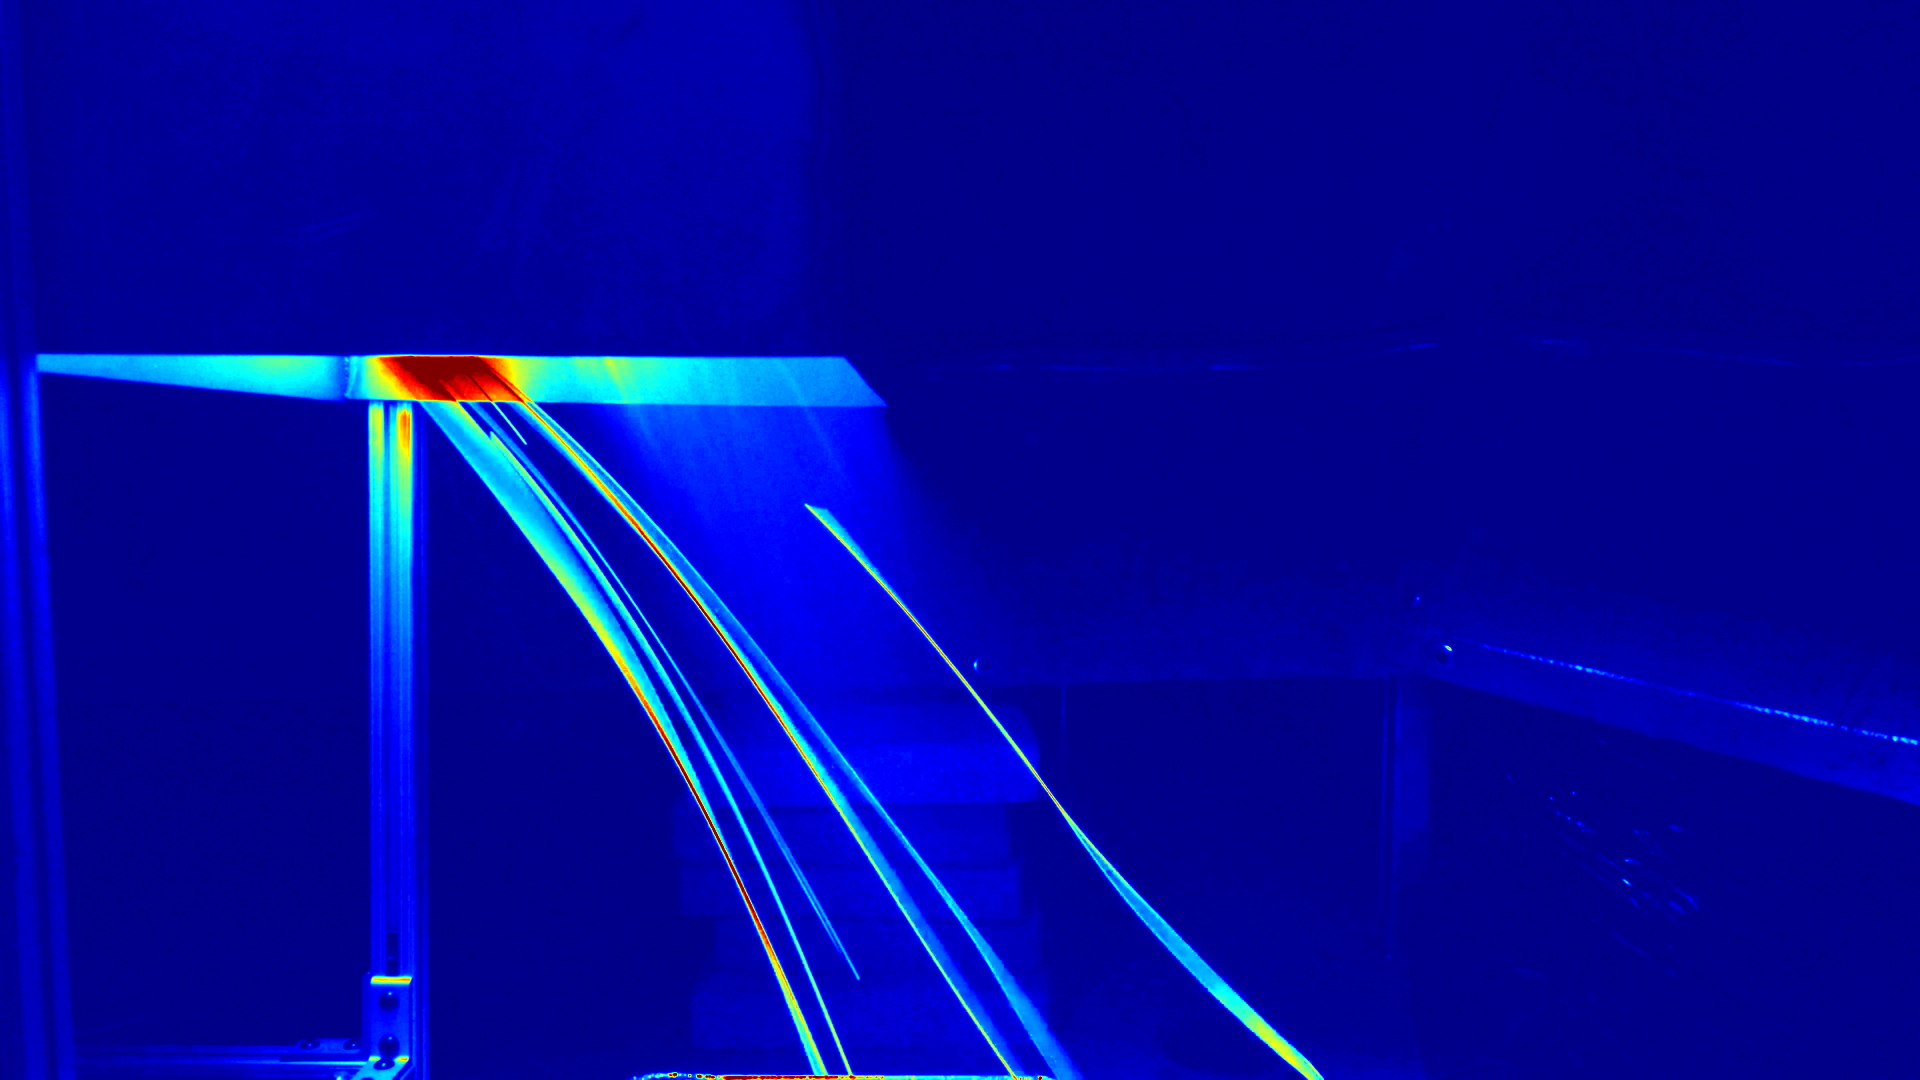
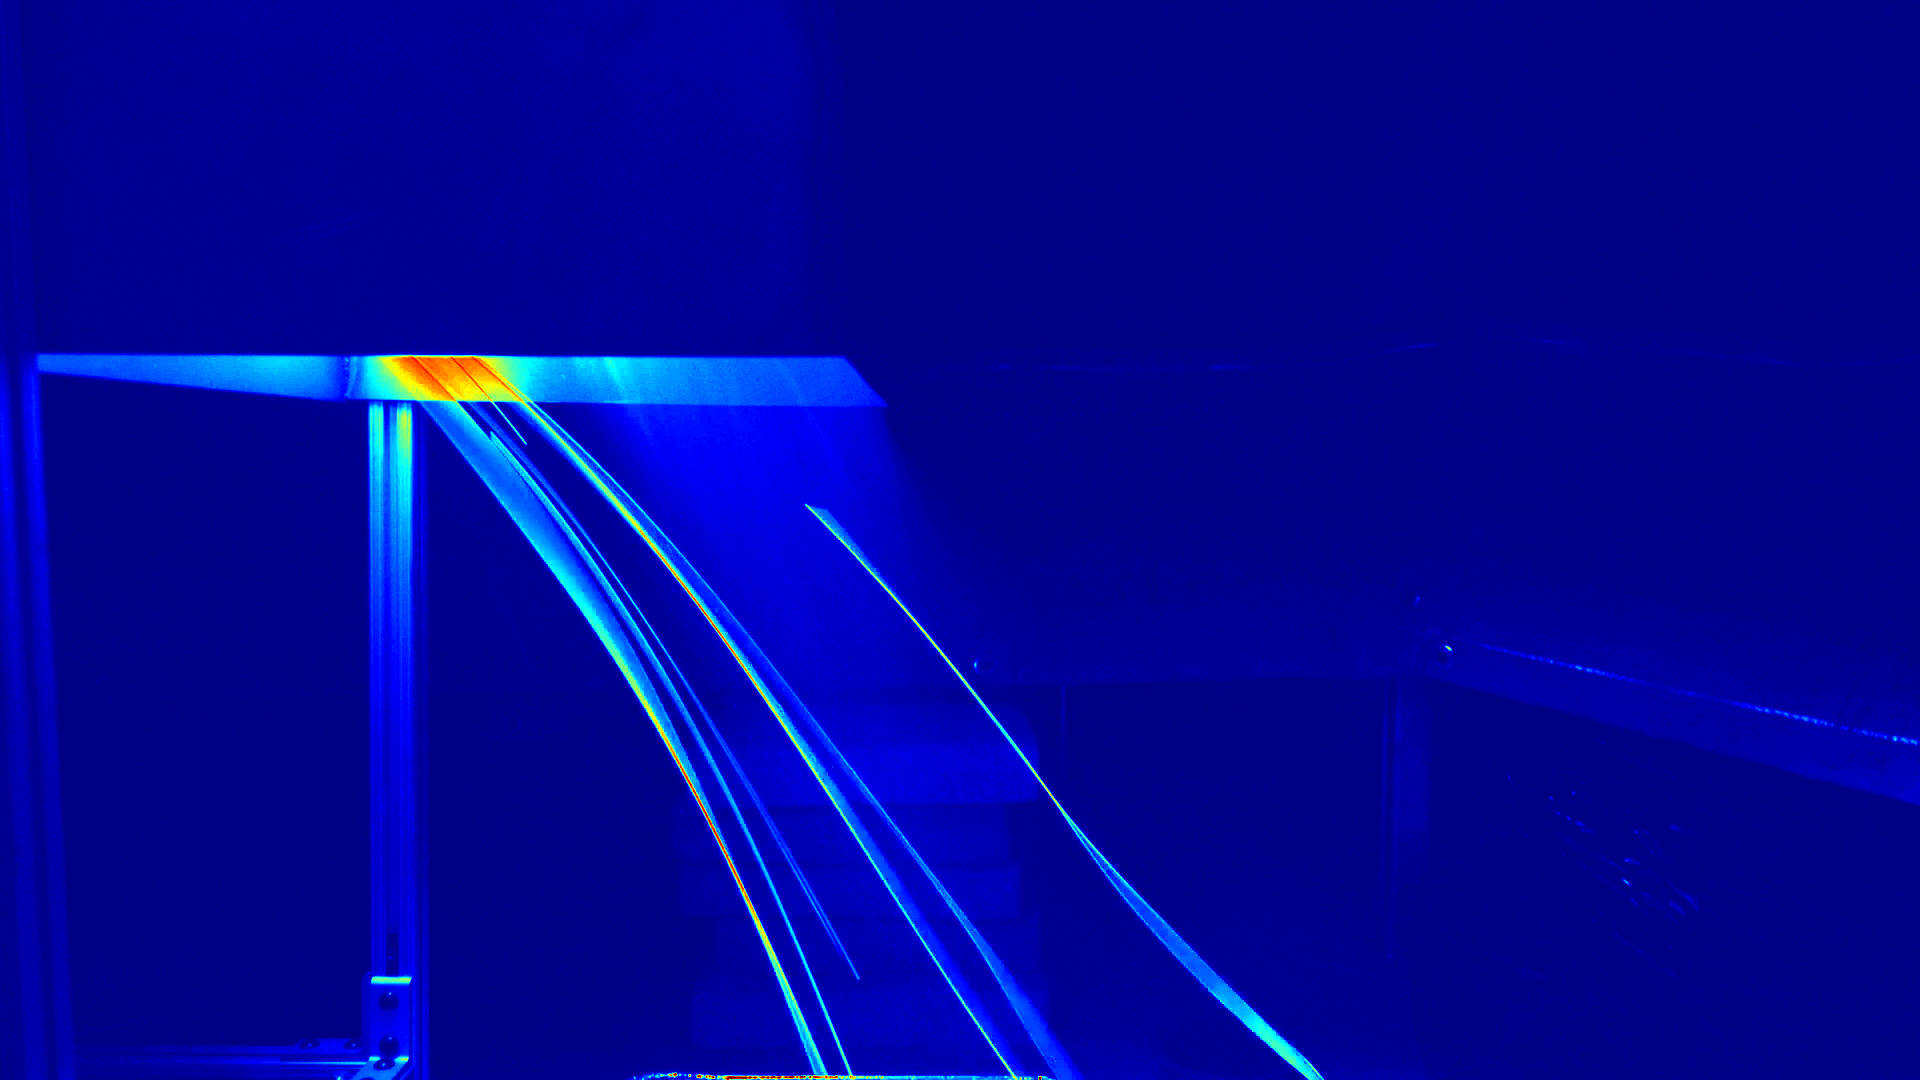
working ratio pyrometry

diff --git a/ratio_pyrometry.py b/ratio_pyrometry.py
@@ -4,10 +4,15 @@ import numpy as np
 from numba import jit
 
 # camera settings
-I_Darkcurrent = 7.7
-exposure_time = 4
-f_stop = 5
-ISO = 100 # basically brightness
+I_Darkcurrent = 150.5
+exposure_time = 0.5
+f_stop = 2.4
+ISO = 64 # basically brightness
+
+# I_Darkcurrent = 50.1
+# exposure_time = 0.1
+# f_stop = 1
+# ISO = 70 # basically brightness
 
 @jit(nopython=True)
 def rg_ratio_normalize(imgarr):
@@ -22,7 +27,7 @@ def rg_ratio_normalize(imgarr):
             ratio = pyrometry_calibration_formula(g_norm, r_norm)
 
             # remove edge cases
-            if ratio < 600 or ratio > 1200:
+            if ratio > 1900:
                 ratio = 0
 
             imgnew[i][j] = [ratio, ratio, ratio]
@@ -42,15 +47,26 @@ def pyrometry_calibration_formula(i_ng, i_nr):
         (i_ng / i_nr) ** 3
     ) + 3753.5
 
+# read image & crop
 img = cv.imread('01-0001.png')
+img = img[400:, 420:1200]
+
+# img = cv.imread('ember_test.png')
 
 img = rg_ratio_normalize(img)
+
+# apply smoothing conv kernel
 kernel = np.array([
-    [0.1, 0.1, 0.1],
-    [0.1, 1, 0.1],
-    [0.1, 0.1, 0.1],
+    [1/2, 1/2],
+    [1/2, 1/2],
 ])
+
+# Scaling adjustment factor
+kernel *= 3/5
+
 img = cv.filter2D(src=img, ddepth=-1, kernel=kernel)
-# img = cv.bitwise_not(img)
+
+# apply jet color map
 img = cv.applyColorMap(img, cv.COLORMAP_JET)
+
 cv.imwrite('01-0001-transformed-ratio.png', img)

diff --git a/grayscale_pyrometry.py b/grayscale_pyrometry.py
@@ -2,11 +2,11 @@ import cv2 as cv
 import numpy as np
 
 img = cv.imread('01-0001.png', 0)
+
 kernel = np.array([
-    [0.1, 0.1, 0.1],
-    [0.1, 1, 0.1],
-    [0.1, 0.1, 0.1],
+    [1.3]
 ])
 img = cv.filter2D(src=img, ddepth=-1, kernel=kernel)
+
 img = cv.applyColorMap(img, cv.COLORMAP_JET)
 cv.imwrite('01-0001-transformed-grayscale.png', img)
